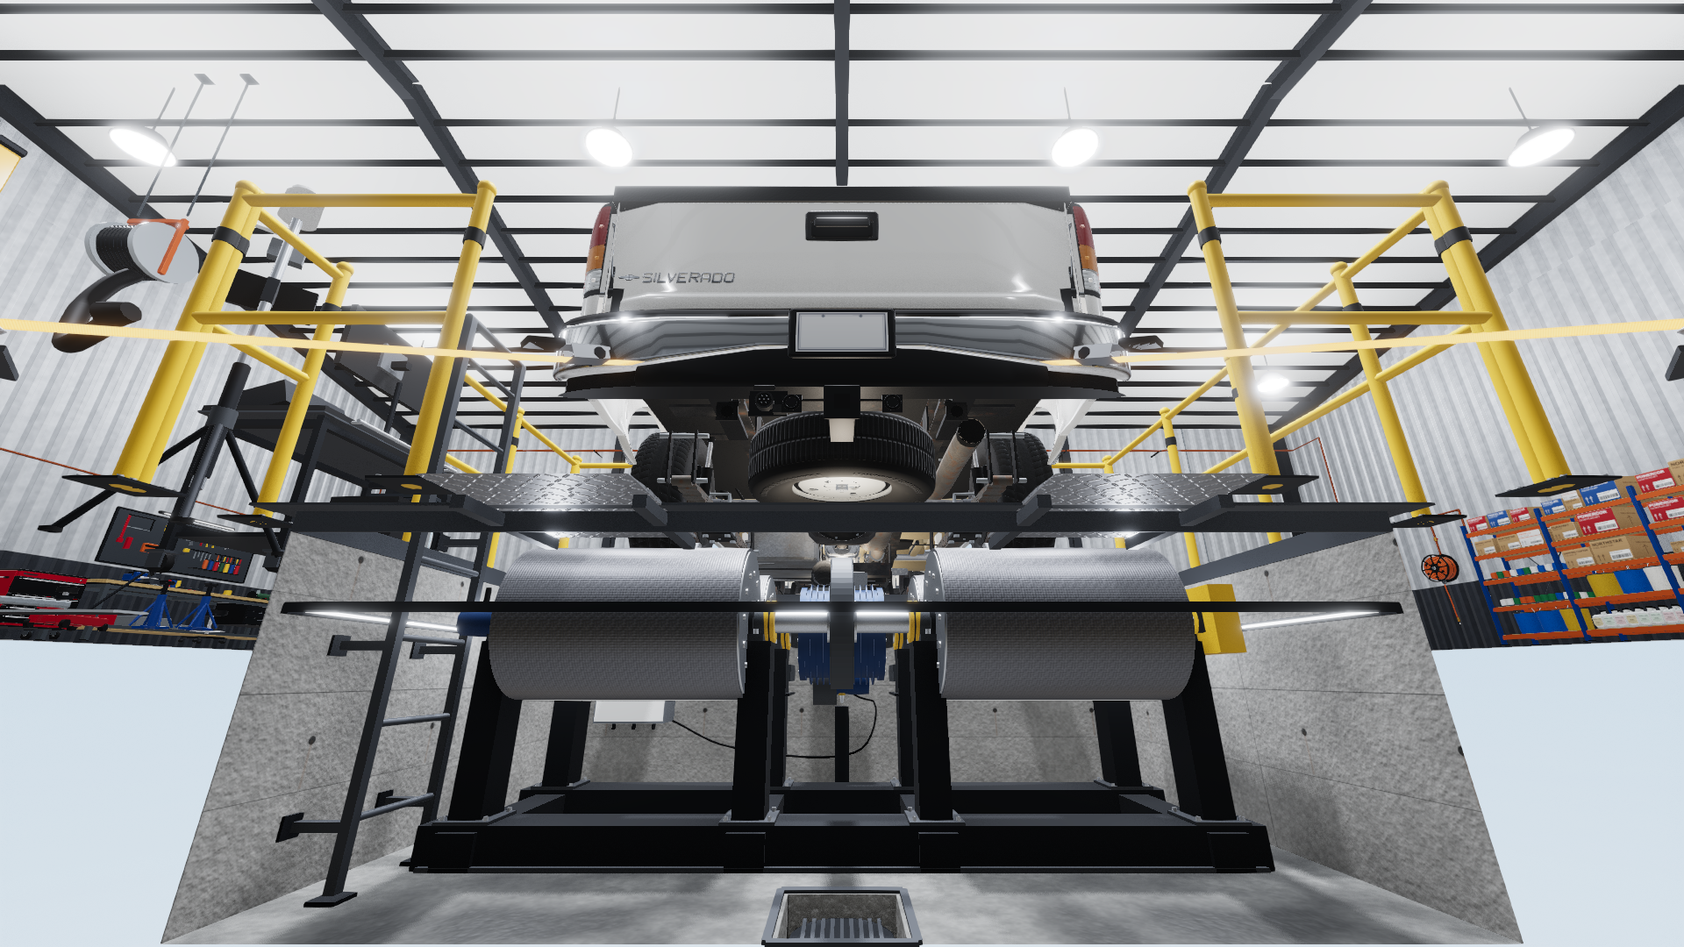
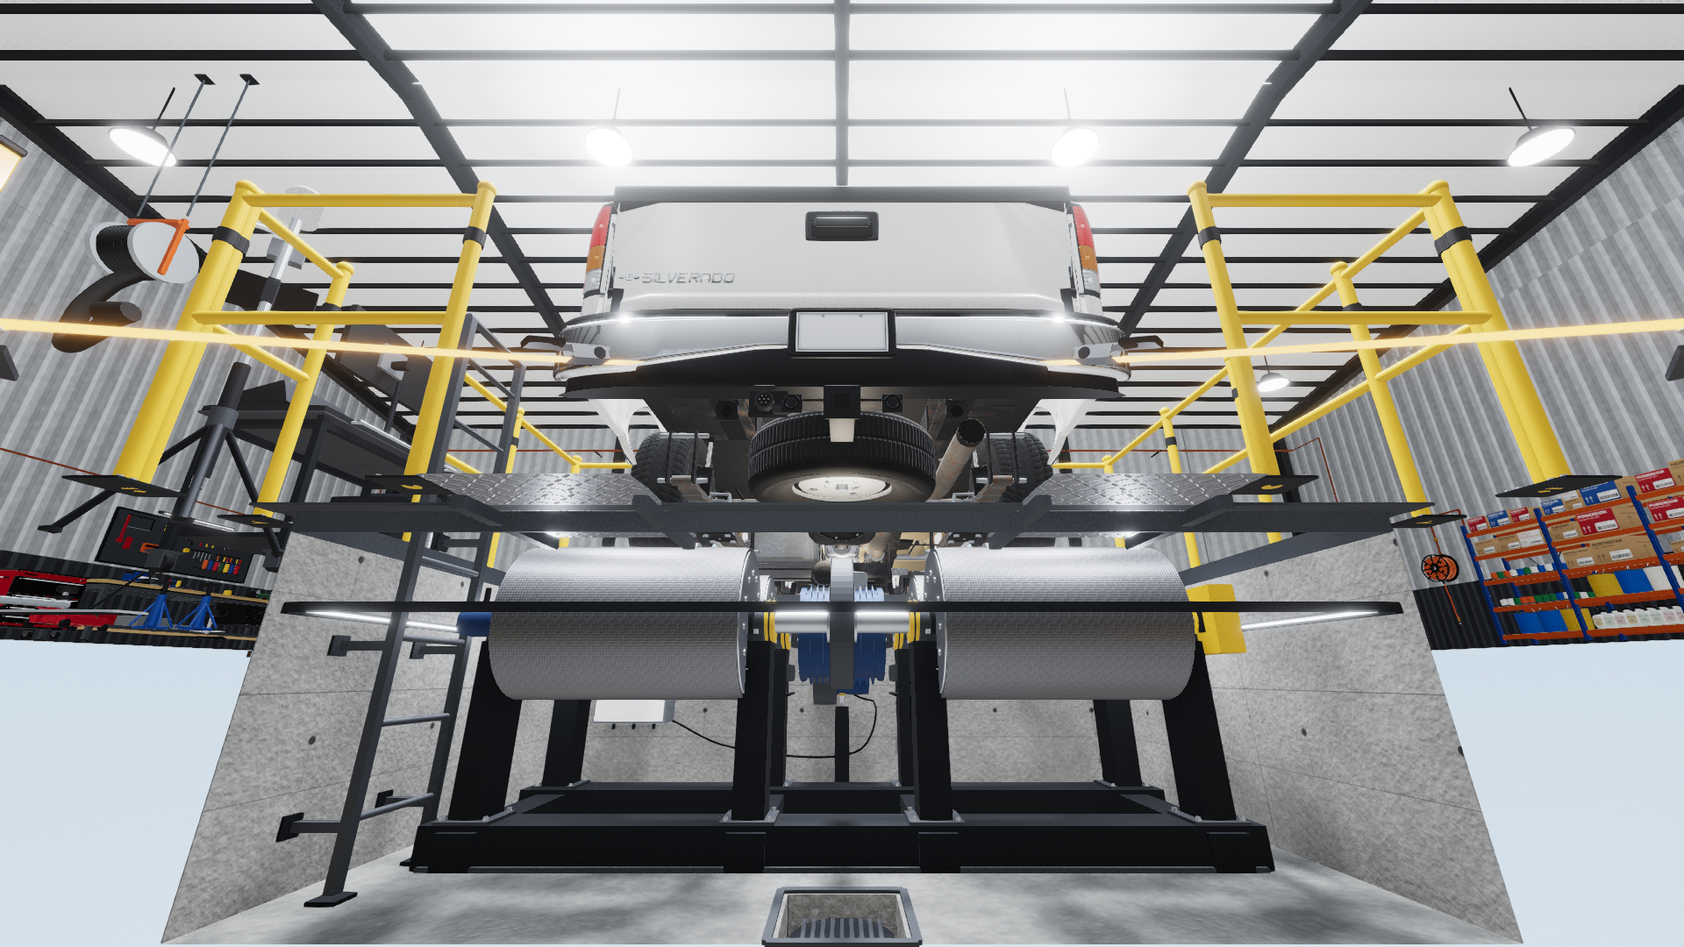
Remove the extra scene pass, fit cab trim and glass, finish the engine port
Performance
- Window glass and lamp lenses no longer use transmission, which made three.js draw every
  opaque object a second time each frame; a test guards against it coming back
- Parts under 3.5 cm radius no longer cast shadows
- Whole game, software renderer, medium: 8.6 s -> 3.0 s per frame

Truck
- Interior trim above the beltline is pulled inside the body (it stood up to 3.6 in outside
  the door frames and roof and showed as a tan cage around the glass)
- Rear doors and back window are privacy glass, with separate outside and inside faces
- Chrome front bumper has smooth normals (flat facets showed as bands)

Engine
- Old downpipe removed (the detailed engine has its own); engine cover thinned to a lid
- X in the game toggles the engine cutaway with the hood up

Checks
- Intro ends on the key press itself, and the pages declare an empty icon: scripts/check.mjs
  is 46/46 (two checks had been failing in software rendering)
- scripts/perf.mjs takes FRAMES for shorter runs
- 12 showcase screenshots retaken; README, PROGRESS.md and ACCURACY.md updated

Claude-Session: https://claude.ai/code/session_01Fmqzf57tdJufCarUr9SqJJ

diff --git a/src/game/game.js b/src/game/game.js
@@ -176,7 +176,7 @@ export class Game {
     this.input.on((type, e) => {
       if (type === 'mousedown' && !this.input.locked && ['walk', 'orbit', 'driver'].includes(this.mode) && !this.panelOpen) this.input.lock();
       if (type !== 'keydown') return;
-      if (this.mode === 'intro' && e.code !== 'F1') { this.introT = 999; return; }
+      if (this.mode === 'intro' && e.code !== 'F1') { this.endIntro(); return; } // at once, not on the next frame
       switch (e.code) {
         case 'Escape': this.closePanels(); break;
         case 'KeyT': this.openPanel('dyno'); break;
@@ -188,6 +188,7 @@ export class Game {
         case 'KeyH': this.uiHidden = !this.uiHidden; this.ui.hideAll(this.uiHidden); break;
         case 'KeyP': this.savePNG(); break;
         case 'KeyQ': { const order = ['low', 'medium', 'high']; this.qname = order[(order.indexOf(this.qname) + 1) % 3]; this.R.setQuality(this.qname); this.ui.setQuality(this.qname); this.ui.say(`Quality: ${this.qname}`, 1.5); break; }
+        case 'KeyX': this.toggleCutaway(); break;
         case 'KeyV': this.toggleDriver(); break;
         case 'KeyC': if (['spinup', 'pull', 'coast'].includes(this.dyno.phase)) this.setMode(this.mode === 'dynocam' ? 'walk' : 'dynocam'); else if (this.mode === 'dynocam') this.setMode('walk'); break;
         case 'KeyO': this.setMode(this.mode === 'orbit' ? 'walk' : 'orbit'); if (this.mode === 'orbit') { this.orbit = { pos: this.camera.position.clone(), yaw: this.player.yaw, pitch: this.player.pitch }; } else this.player.applyCamera(); break;
@@ -217,6 +218,24 @@ export class Game {
     return { pos: [0, 1, 2].map((k) => L(a[1][k], b[1][k])), tgt: [0, 1, 2].map((k) => L(a[2][k], b[2][k])), fov: L(a[3], b[3]) };
   }
 
+  // X: fade the engine castings to show the crank, pistons, cam and valvetrain working (the hood has to be up to see it)
+  toggleCutaway() {
+    const core = this.truck.parts.engineBay.core, hood = this.truckCtl.hood; if (!core) return;
+    if (!core.cutaway && !(hood && hood.open)) { this.ui.say('Open the hood first, then press X for the engine cutaway.', 3); return; }
+    core.setCutaway(!core.cutaway);
+    this.ui.say(core.cutaway ? 'Engine cutaway: castings faded, internals shown (X to close)' : 'Engine cutaway off', 2.5);
+  }
+
+  // The fly-through is over (it ran out, or a key skipped it): hand the camera to the player where the fly-through ends.
+  endIntro() {
+    if (this.mode !== 'intro') return;
+    this.introT = 999;
+    const p = this.introPose(18);
+    this.camera.position.set(...p.pos); this.camera.lookAt(...p.tgt); this.camera.fov = 60; this.camera.updateProjectionMatrix();
+    const dx = -1.0 - this.camera.position.x, dz = -2.0 - this.camera.position.z;
+    this.player.setPose(this.camera.position.x, this.camera.position.z, Math.atan2(-dx, -dz), -0.1); this.setMode('walk'); this.ui.say('Walk mode: WASD to move, E to use, F1 for help', 5);
+  }
+
   toggleDriver() {
     if (this.mode === 'driver') { this.player.setPose(-1.7, TRUCK_Z + 1.2, Math.PI / 2, -0.1); this.setMode('walk'); this.pedal = 0; this.brakeIn = 0; this.ui.say('Left the truck', 1.5); return; }
     if (this.mode !== 'walk') return;
@@ -239,11 +258,7 @@ export class Game {
       this.introT += dt;
       const p = this.introPose(Math.min(this.introT, 18));
       this.camera.position.set(...p.pos); this.camera.lookAt(...p.tgt); this.camera.fov = p.fov; this.camera.updateProjectionMatrix();
-      if (this.introT >= 18) {
-        this.camera.fov = 60; this.camera.updateProjectionMatrix();
-        const dx = -1.0 - this.camera.position.x, dz = -2.0 - this.camera.position.z;
-        this.player.setPose(this.camera.position.x, this.camera.position.z, Math.atan2(-dx, -dz), -0.1); this.setMode('walk'); this.ui.say('Walk mode: WASD to move, E to use, F1 for help', 5);
-      }
+      if (this.introT >= 18) this.endIntro();
     } else if (this.mode === 'walk') {
       if (this.input.locked) this.player.look(this.input.mouseDX, this.input.mouseDY);
       this.player.update(dt, this.input);

diff --git a/src/truck/index.js b/src/truck/index.js
@@ -15,6 +15,7 @@ import { buildHoodUnder } from './hoodUnder.js';
 import { buildUnderside } from './underside.js';
 import { buildWheel } from './wheels.js';
 import { buildInterior } from './interior/index.js';
+import { fitInteriorToBody } from './interior/fit.js';
 
 const IN = IN_TO_M;
 const lerp = (a, b, t) => a + (b - a) * t;
@@ -25,6 +26,15 @@ export function buildTruck({ quality }) {
   const paint = mat.paint();
   paint.side = THREE.DoubleSide;
   const glass = mat.glassTinted();
+  // privacy glass has an outside and an inside face (src/core/materials.js); which triangle side is "outside" depends on how
+  // each pane was wound, so it is read from the pane's own normal against the direction that points out of the cab
+  const privacy = { out: mat.glassPrivacy(false), in: mat.glassPrivacy(true) };
+  const flipped = (m) => { const c = m.clone(); c.side = m.side === THREE.FrontSide ? THREE.BackSide : THREE.FrontSide; return c; };
+  privacy.outFlip = flipped(privacy.out); privacy.inFlip = flipped(privacy.in);
+  const addPrivacy = (parent, g, name, ox, oz) => {
+    const n = g.attributes.normal, mid = Math.floor(n.count / 2), faces = n.getX(mid) * ox + n.getZ(mid) * oz >= 0;
+    add(parent, g, faces ? privacy.out : privacy.outFlip, name, false); add(parent, g, faces ? privacy.in : privacy.inFlip, `${name}_inner`, false);
+  };
   const trimBlack = mat.blackPlastic(0.5);
   const darkTub = new THREE.MeshStandardMaterial({ color: 0x08090a, roughness: 0.9, metalness: 0 });
 
@@ -79,13 +89,14 @@ export function buildTruck({ quality }) {
     }
     for (let j = 0; j < nJ; j++) for (let i = 0; i < nI; i++) { const a = j * (nI + 1) + i, b = a + 1, c = a + nI + 2, d = a + nI + 1; ind.push(a, b, d, b, c, d); }
     const g = new THREE.BufferGeometry(); g.setAttribute('position', new THREE.Float32BufferAttribute(P, 3)); g.setIndex(ind); g.computeVertexNormals();
-    add(glassGroup, g, glass, 'rear_glass', false);
+    addPrivacy(glassGroup, g, 'rear_glass', 0, 1);
   }
   // door glass (belongs to the door groups so it opens with them)
   for (const key of ['f', 'r']) for (const side of ['L', 'R']) {
     const w = win[key];
     const g = gridPanel({ nI: 14, nJ: 10, side: side === 'R' ? 1 : -1, offset: -0.55, flange: false, pos: rowPos(w.yb, w.yt, w.sf, w.sr) });
-    add(parts.doors[`${key}${side}`], g, glass, `door_glass_${key}${side}`, false);
+    if (key === 'r') addPrivacy(parts.doors[`${key}${side}`], g, `door_glass_${key}${side}`, side === 'R' ? 1 : -1, 0);
+    else add(parts.doors[`${key}${side}`], g, glass, `door_glass_${key}${side}`, false);
   }
 
   // ---------------- front end, mirrors, handles ----------------
@@ -101,6 +112,7 @@ export function buildTruck({ quality }) {
   const tub = (w, h, d, x, y, z) => { const m = new THREE.Mesh(new THREE.BoxGeometry(w * IN, h * IN, d * IN), darkTub); m.position.set(x * IN, y * IN, z * IN); root.add(m); return m; };
   // the cab volume is the interior (src/truck/interior): door cards, floor, pillars and headliner are the dark backing
   const interior = buildInterior({ quality, parts }); root.add(interior.group); parts.interior = interior;
+  fitInteriorToBody(interior.group, root); // the trim follows the body's inward lean above the beltline
   tub(68, 10, 80, 0, 33, 152);         // bed volume under the floor
 
   // ---------------- wheels and tires (wheels.js): front/rear, left/right; spin hooks live in parts.wheels ----------------

diff --git a/src/truck/front.js b/src/truck/front.js
@@ -2,7 +2,7 @@
 // cat-eye headlamps with the lower turn/park units, black bumper cap over a chrome strip, valance with fog lamps and tow-hook slots.
 // Layout measured from reference/IMG_2853, 2860, 2873 (front views). Inches in the truck frame, converted at the end.
 import * as THREE from 'three';
-import { mergeGeometries } from 'three/examples/jsm/utils/BufferGeometryUtils.js';
+import { mergeGeometries, toCreasedNormals } from 'three/examples/jsm/utils/BufferGeometryUtils.js';
 import { mat } from '../core/materials.js';
 import { IN_TO_M as IN, S_FRONT } from './skin.js';
 import { gridPanel } from './panels.js';
@@ -61,8 +61,9 @@ export function buildFront({ quality }) {
   const black = mat.blackPlastic(0.55);
   const blackGloss = new THREE.MeshPhysicalMaterial({ color: 0x0d0e10, roughness: 0.32, metalness: 0, clearcoat: 0.6, clearcoatRoughness: 0.2 });
   const bumperBlack = new THREE.MeshStandardMaterial({ color: 0x1c1d1f, roughness: 0.62, metalness: 0.05 });
-  const lens = new THREE.MeshPhysicalMaterial({ color: 0xf5f8f7, roughness: 0.02, metalness: 0, transmission: 0.92, transparent: true, opacity: 0.85, clearcoat: 1, clearcoatRoughness: 0.05, envMapIntensity: 2.0, ior: 1.5, thickness: 0.02 });
-  const amberLens = new THREE.MeshPhysicalMaterial({ color: 0xff9a22, roughness: 0.08, metalness: 0, transmission: 0.75, transparent: true, opacity: 0.9, clearcoat: 1, envMapIntensity: 1.4, ior: 1.5 });
+  // clear lenses by plain transparency (see the note on transmission in src/core/materials.js)
+  const lens = new THREE.MeshPhysicalMaterial({ color: 0xdfe6e6, roughness: 0.02, metalness: 0, transparent: true, opacity: 0.22, clearcoat: 1, clearcoatRoughness: 0.05, envMapIntensity: 2.0, ior: 1.5, depthWrite: false });
+  const amberLens = new THREE.MeshPhysicalMaterial({ color: 0xff9a22, roughness: 0.08, metalness: 0, transparent: true, opacity: 0.72, clearcoat: 1, envMapIntensity: 1.4, ior: 1.5 });
   const reflector = new THREE.MeshStandardMaterial({ color: 0xe8ecef, metalness: 0.95, roughness: 0.08, envMapIntensity: 2.2 });
   const bulb = new THREE.MeshStandardMaterial({ color: 0xffffff, emissive: 0xffffff, emissiveIntensity: 0.15, roughness: 0.3 });
   const add = (g, m, name, cast = true) => { const mesh = new THREE.Mesh(g, m); mesh.name = name; mesh.castShadow = cast; mesh.receiveShadow = true; group.add(mesh); return mesh; };
@@ -159,7 +160,8 @@ export function buildFront({ quality }) {
       g.scale(IN, IN, IN);
       g.rotateX(-Math.PI / 2); // shape y -> -z (so y_shape = -s gives z = s), extrusion z -> +y
       g.translate(0, y0 * IN, 0);
-      g.computeVertexNormals(); return g;
+      // smooth across the many short segments of the curved face (flat facets showed as bands in the chrome), creased at real edges
+      return toCreasedNormals(g, 40 * Math.PI / 180);
     };
     add(make(25.6, 32.0, 0.5), bumperBlack, 'bumper_cap');
     // two slots in the upper cap (as in the photos): dark recesses

diff --git a/src/truck/interior/fit.js b/src/truck/interior/fit.js
@@ -1,0 +1,34 @@
+// Keeps the cab trim inside the body. The upper cab narrows toward the roof (tumblehome), but the pillar trim, roof rails
+// and headliner were laid out on near-vertical walls, so above the beltline they stood up to 3.6 in outside the door frames
+// and roof and showed from outside as a tan cage around the glass. Every interior vertex above the beltline is pulled in to
+// sit just inside the body surface at its own height and station.
+import * as THREE from 'three';
+import { halfWidth, roofHeight, H, ST, IN_TO_M } from '../skin.js';
+
+const WALL = 1.1;  // inches inside the outer skin (door frame and glass thickness)
+const ROOF = 0.9;  // inches below the roof skin
+
+export function fitInteriorToBody(interior, root) {
+  root.updateMatrixWorld(true);
+  const toRoot = new THREE.Matrix4(), back = new THREE.Matrix4(), inv = new THREE.Matrix4().copy(root.matrixWorld).invert(), v = new THREE.Vector3();
+  const seen = new Set(); let moved = 0;
+  interior.traverse((o) => {
+    if (!o.isMesh || o.isInstancedMesh || !o.geometry.attributes.position) return;
+    if (seen.has(o.geometry)) o.geometry = o.geometry.clone(); // a shared shape is fitted once per place it is used
+    seen.add(o.geometry);
+    toRoot.multiplyMatrices(inv, o.matrixWorld); back.copy(toRoot).invert();
+    const p = o.geometry.attributes.position; let touched = false;
+    for (let i = 0; i < p.count; i++) {
+      v.fromBufferAttribute(p, i).applyMatrix4(toRoot);
+      const x = v.x / IN_TO_M, y = v.y / IN_TO_M, s = v.z / IN_TO_M;
+      if (y <= H.beltline || s < 40 || s > ST.cabBack) continue;
+      let nx = x, ny = y;
+      const top = roofHeight(s, x) - ROOF; if (y > top) ny = top;
+      const w = Math.max(0, halfWidth(s, ny) - WALL); if (Math.abs(x) > w) nx = Math.sign(x) * w;
+      if (nx === x && ny === y) continue;
+      v.set(nx * IN_TO_M, ny * IN_TO_M, v.z).applyMatrix4(back); p.setXYZ(i, v.x, v.y, v.z); touched = true; moved++;
+    }
+    if (touched) { p.needsUpdate = true; o.geometry.computeBoundingSphere(); o.geometry.computeBoundingBox(); }
+  });
+  return moved;
+}

diff --git a/src/core/materials.js b/src/core/materials.js
@@ -27,8 +27,15 @@ export const mat = {
   steelPainted(color = 0x2a2d31, roughness = 0.45) { return new THREE.MeshStandardMaterial({ color, metalness: 0.5, roughness, envMapIntensity: 0.8 }); },
   blackPlastic(rough = 0.55) { return new THREE.MeshStandardMaterial({ color: 0x141517, roughness: rough, metalness: 0.0, envMapIntensity: 0.7 }); },
   rubber(color = 0x0e0e0f) { return new THREE.MeshStandardMaterial({ color, roughness: 0.92, metalness: 0.0, envMapIntensity: 0.4 }); },
+  // No `transmission` on any truck glass or lens: a single transmissive material makes three.js draw every opaque object in
+  // the scene a second time into a separate target each frame. Plain transparency looks the same here at a fraction of the cost.
   glassTinted() {
-    return new THREE.MeshPhysicalMaterial({ color: 0x0a1513, metalness: 0.08, roughness: 0.02, transmission: 0.15, transparent: true, opacity: 0.68, envMapIntensity: 2.2, ior: 1.52, side: THREE.DoubleSide });
+    return new THREE.MeshPhysicalMaterial({ color: 0x0a1513, metalness: 0.08, roughness: 0.02, transparent: true, opacity: 0.68, envMapIntensity: 2.2, ior: 1.52, side: THREE.DoubleSide });
+  },
+  // Rear doors and back window: the factory deep-tint privacy glass. Two faces, because it reads differently from each side:
+  // nearly black from outside (the cab behind it is dim), still see-through from the seats.
+  glassPrivacy(inside = false) {
+    return new THREE.MeshPhysicalMaterial({ color: 0x050807, metalness: 0.08, roughness: 0.02, transparent: true, opacity: inside ? 0.55 : 0.96, envMapIntensity: inside ? 0.6 : 2.2, ior: 1.52, side: inside ? THREE.BackSide : THREE.FrontSide });
   },
   glassClear() {
     return new THREE.MeshPhysicalMaterial({ color: 0xcfe0e0, metalness: 0, roughness: 0.02, transparent: true, opacity: 0.25, envMapIntensity: 1.4, ior: 1.5, side: THREE.DoubleSide });

diff --git a/src/truck/engine/index.js b/src/truck/engine/index.js
@@ -19,7 +19,7 @@ export { hoodPose, buildHoodUnder } from '../hoodUnder.js';
 
 // The parts of the simple engine that the detailed long block replaces (it has its own block, heads, covers, manifolds,
 // front drive with alternator and water pump, turbo, up-pipes, fuel system and harness).
-const SUPERSEDED = ['block', 'bank_driver', 'bank_passenger', 'intake_manifold', 'cp3', 'belt', 'pulleys', 'water_pump', 'tensioner', 'alternator', 'turbo', 'crossovers', 'vgt_actuator', 'engine_wiring', 'fasteners_engine'];
+const SUPERSEDED = ['block', 'bank_driver', 'bank_passenger', 'intake_manifold', 'cp3', 'belt', 'pulleys', 'water_pump', 'tensioner', 'alternator', 'turbo', 'downpipe', 'crossovers', 'vgt_actuator', 'engine_wiring', 'fasteners_engine'];
 // mid-length of the detailed engine along the truck, in bay inches (the heads then sit where the simple engine's banks were)
 const CORE_S = 2.4;
 
@@ -43,7 +43,7 @@ export function buildEngineBay({ quality, detailed = true } = {}) {
   const mount = new THREE.Group(); mount.name = 'engine_mount'; mount.userData.dynamic = true; mount.position.set(c.x, c.y, c.s); inch.add(mount);
   const body = new THREE.Group(); body.name = 'engine_body'; body.position.set(-c.x, -c.y, -c.s); mount.add(body);
   const efast = new Fasteners(mats);
-  const pt = buildPowertrain({ mats, d, fast: efast }); body.add(pt.group);
+  const pt = buildPowertrain({ mats, d, fast: efast, coverDepth: detailed ? 2.6 : 6.4 }); body.add(pt.group);
   const turbo = buildTurbo({ mats, d, fast: efast }, pt.group);
   buildEngineWiring({ mats, d, fast: efast }, pt.group);
   { const fg = new THREE.Group(); fg.name = 'fasteners_engine'; fg.userData.labelId = 'engine.fasteners'; pt.group.add(fg); efast.flush(fg); }

diff --git a/src/truck/engine/powertrain.js b/src/truck/engine/powertrain.js
@@ -17,7 +17,7 @@ function bankBox(sgn, u, w, s, du, dw, ds, r = 0.0, seg = 2) {
   return T(g, [p.x, p.y, p.z], [0, 0, -sgn * Math.PI / 4]);
 }
 
-export function buildPowertrain({ mats, d, fast }) {
+export function buildPowertrain({ mats, d, fast, coverDepth = 6.4 }) {
   const root = new THREE.Group(); root.name = 'engine'; root.userData.labelId = 'engine.block';
   const A = {}; // anchors
   const S0 = ENGINE.bankS0, S1 = ENGINE.bankS1, SC = (S0 + S1) / 2, SL = S1 - S0;
@@ -120,9 +120,10 @@ export function buildPowertrain({ mats, d, fast }) {
     const pts = [[-2.8, 4.0], [3.4, 4.0], [7.4, 3.0], [8.4, -1.5], [8.4, -7.0], [5.0, -10.5], [-5.6, -10.5], [-8.4, -7.2], [-8.4, -1.0], [-8.0, 2.6]].map(([x, y]) => [x * K, y]); // (x, -s) outline
     const s0 = -4.0, s1 = 10.5, slope = (45.2 - 41.0) / (s1 - s0);
     const shape = new THREE.Shape(pts.map((p) => new THREE.Vector2(p[0], p[1])));
-    const geo = new THREE.ExtrudeGeometry(shape, { depth: 6.4, bevelEnabled: true, bevelThickness: 0.55, bevelSize: 0.5, bevelSegments: 4, curveSegments: 6 });
+    // coverDepth: how far the shell reaches down from its top (the real cover is a thin lid; the simple engine used a deep one)
+    const geo = new THREE.ExtrudeGeometry(shape, { depth: coverDepth, bevelEnabled: true, bevelThickness: 0.55, bevelSize: 0.5, bevelSegments: 4, curveSegments: 6 });
     geo.rotateX(-Math.PI / 2); // shape y -> -z (outline holds -s), extrusion z -> +y
-    geo.translate(0, 34.05, 0);
+    geo.translate(0, 34.05 + 6.4 - coverDepth, 0);
     const pos = geo.attributes.position;
     // sloped top: shear the upper part upward with s so the cover rises toward the firewall
     for (let i = 0; i < pos.count; i++) {

diff --git a/src/truck/optimize.js b/src/truck/optimize.js
@@ -55,11 +55,27 @@ function mergeable(o) {
   return true;
 }
 
+// Small parts stop casting shadows: the shadow pass redraws every caster, and a clip, bolt or switch a few centimetres across
+// leaves no shadow anyone could pick out. Sizes are world sizes (metres).
+export const SHADOW_MIN_RADIUS = 0.035;
+export function trimShadowCasters(root, minRadius = SHADOW_MIN_RADIUS) {
+  const s = new THREE.Vector3(); let trimmed = 0;
+  root.updateMatrixWorld(true);
+  root.traverse((o) => {
+    if (!o.isMesh || !o.castShadow || o.isInstancedMesh || !o.geometry.attributes.position) return;
+    if (!o.geometry.boundingSphere) o.geometry.computeBoundingSphere();
+    s.setFromMatrixScale(o.matrixWorld);
+    if (o.geometry.boundingSphere.radius * Math.max(s.x, s.y, s.z) < minRadius) { o.castShadow = false; trimmed++; }
+  });
+  return trimmed;
+}
+
 // Merge. Returns { before, after, merged } mesh counts (drawn meshes).
 export function optimizeTruck(truck, { extraBoundaries = [] } = {}) {
   const root = truck.group, P = truck.parts;
   const boundaries = [P.engineBay && P.engineBay.group, P.hoodUnder && P.hoodUnder.group, truck.underside && truck.underside.group, P.interior && P.interior.group, ...extraBoundaries].filter(Boolean);
   root.updateMatrixWorld(true);
+  trimShadowCasters(root); // before merging, so small parts group with the other non-casters
   let before = 0; root.traverse((o) => { if (o.isMesh && o.layers.mask === 1) before++; });
   const plan = planMerge(root, { boundaries, anchors: truck.anchors });
   const inv = new THREE.Matrix4(), rel = new THREE.Matrix4();

diff --git a/tests/detailedEngine.test.js b/tests/detailedEngine.test.js
@@ -10,8 +10,8 @@ describe('detailed engine in the bay', () => {
     const { LABELS } = await import('../src/data/labels/index.js');
     const bay = buildEngineBay({ quality: QUALITY.medium });
     expect(bay.core).toBeTruthy();
-    for (const gone of ['block', 'bank_driver', 'intake_manifold', 'turbo', 'belt']) expect(bay.group.getObjectByName(gone), gone).toBeUndefined();
-    for (const kept of ['engine_cover', 'fan', 'ac_compressor', 'ps_pump', 'downpipe']) expect(bay.group.getObjectByName(kept), kept).toBeTruthy();
+    for (const gone of ['block', 'bank_driver', 'intake_manifold', 'turbo', 'belt', 'downpipe']) expect(bay.group.getObjectByName(gone), gone).toBeUndefined();
+    for (const kept of ['engine_cover', 'fan', 'ac_compressor', 'ps_pump']) expect(bay.group.getObjectByName(kept), kept).toBeTruthy();
     const ids = new Set(); bay.core.group.traverse((o) => { if (o.userData.labelId) ids.add(o.userData.labelId); });
     expect(ids.size).toBeGreaterThan(40);
     for (const id of ids) { expect(LABELS[id], id).toBeTruthy(); expect(LABELS[id].name.length).toBeGreaterThan(3); expect(LABELS[id].desc.length).toBeGreaterThan(20); }

diff --git a/src/ui/ui.js b/src/ui/ui.js
@@ -4,7 +4,7 @@ const h = (tag, cls, html) => { const e = document.createElement(tag); if (cls) 
 const HELP = [
   ['Move', 'W A S D, Shift run, Ctrl crouch'], ['Look', 'Mouse (click the view to capture it, Esc releases it)'],
   ['Use', 'E: open doors, hood, tailgate; use equipment; sit in the truck'], ['Inspect', 'I: toggle part names and descriptions while pointing'],
-  ['Hood', 'Pull the release handle inside the cab (lower left of the wheel), then the secondary release at the grille, then lift'],
+  ['Hood', 'Pull the release handle inside the cab (lower left of the wheel), then the secondary release at the grille, then lift. X: engine cutaway'],
   ['Truck', 'Sit in the driver seat (E at an open door). Key: E on the ignition. Hold E for START. Shifter: 1 P, 2 R, 3 N, 4 D'],
   ['Dyno', 'T: dyno panel. Gear 1-5, strap the truck, fan on, then Start Run. C: dyno camera while running'],
   ['AI Live', 'L: open the laptop when standing at the cart'], ['Shop menu', 'M: repairs, shop temperature, LBZ regulator'],

diff --git a/tests/truckBuild.test.js b/tests/truckBuild.test.js
@@ -30,6 +30,9 @@ describe('whole-truck build (stub canvas)', () => {
       let meshes = 0; truck.group.traverse((o) => { if (o.isMesh) meshes++; });
       expect(meshes).toBeGreaterThan(500);
       expect(truck.parts.engineBay).toBeTruthy();
+      // a transmissive material makes three.js draw every opaque object a second time each frame (src/core/materials.js)
+      const transmissive = new Set(); truck.group.traverse((o) => { for (const m of [].concat(o.material || [])) if (m.transmission > 0) transmissive.add(o.name || m.type); });
+      expect([...transmissive]).toEqual([]);
     }, 60000);
   }
 });

diff --git a/studio.html b/studio.html
@@ -3,6 +3,7 @@
 <head>
 <meta charset="utf-8" />
 <meta name="viewport" content="width=device-width, initial-scale=1" />
+<link rel="icon" href="data:," />
 <title>Truck Studio</title>
 <style>
   html,body{margin:0;height:100%;background:#2c2f35;overflow:hidden;font-family:system-ui,Segoe UI,Roboto,sans-serif;color:#e8e8e8;font-size:13px}
